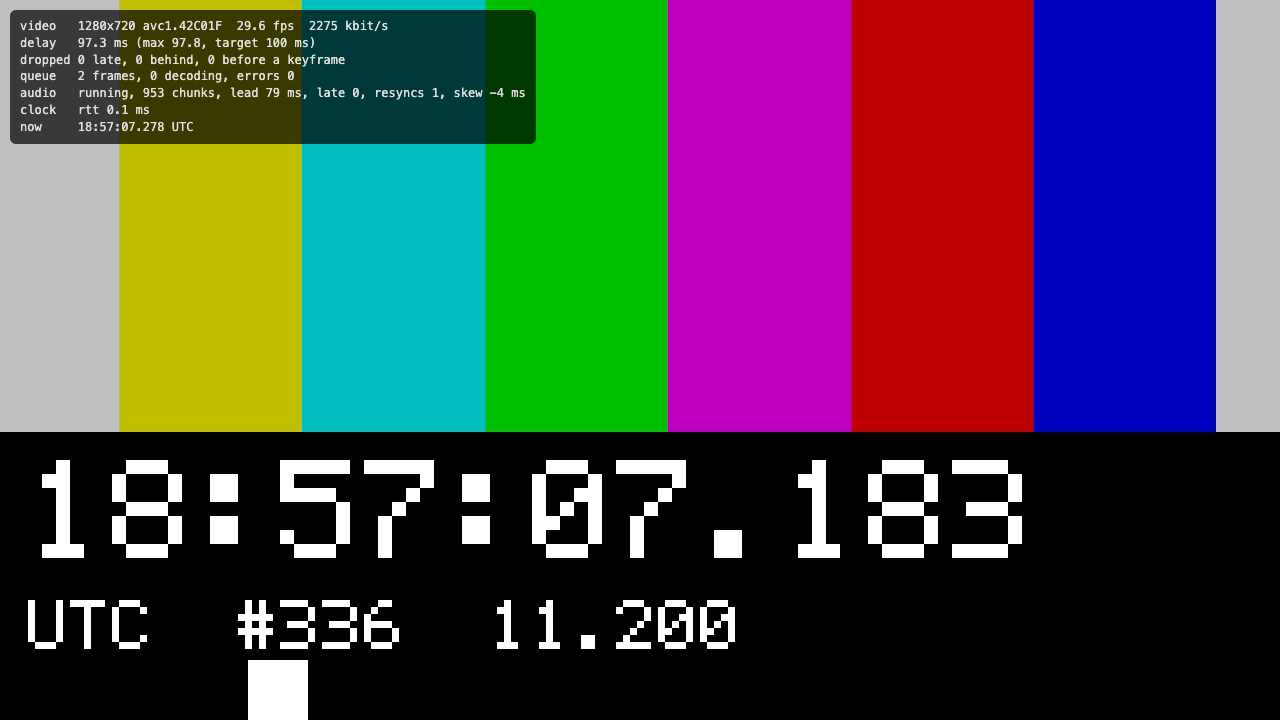
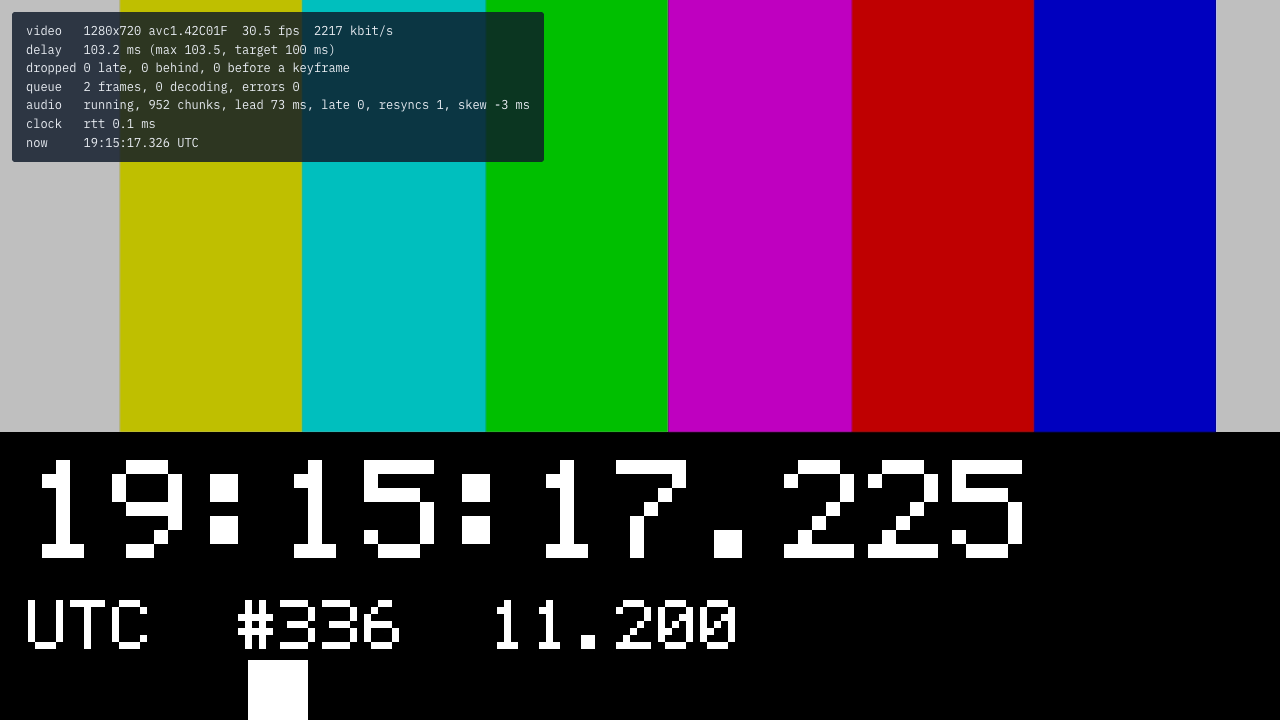
player: the website's look, with the compiled-in fonts
The --to browser page's buttons, message and statistics use the share
page's type and colours (always dark, it frames video): Michroma buttons,
the orange sound button, the tvpipe wordmark over the message, Plex Mono
statistics. The player serves /fonts/ like the share page. Fresh
screenshots for the site.

diff --git a/src/browser/player.html b/src/browser/player.html
@@ -4,26 +4,43 @@
 <meta charset="utf-8">
 <meta name="viewport" content="width=device-width, initial-scale=1">
 <title>tvpipe</title>
+<link rel="preload" href="/fonts/michroma.woff2" as="font" type="font/woff2" crossorigin>
+<link rel="preload" href="/fonts/sixtyfour.woff2" as="font" type="font/woff2" crossorigin>
 <style>
+  /* The tvpipe website's type and colours, always dark (it frames video). */
+  @font-face { font-family: "Sixtyfour"; src: url(/fonts/sixtyfour.woff2) format("woff2"); font-display: block; }
+  @font-face { font-family: "Michroma"; src: url(/fonts/michroma.woff2) format("woff2"); font-display: block; }
+  @font-face { font-family: "IBM Plex Sans"; src: url(/fonts/plex-sans.woff2) format("woff2"); font-weight: 300 700; font-display: swap; }
+  @font-face { font-family: "IBM Plex Mono"; src: url(/fonts/plex-mono-400.woff2) format("woff2"); font-weight: 400; font-display: swap; }
+  :root { color-scheme: dark; --ink: #E8ECF2; --ink-2: rgba(232, 236, 242, .72); --panel: rgba(13, 24, 40, .82);
+          --panel-hover: rgba(19, 34, 58, .95); --accent: #E8743B; --navy: #0D1828; }
   html, body { margin: 0; height: 100%; background: #000; overflow: hidden; }
-  body { font: 15px/1.45 -apple-system, BlinkMacSystemFont, "Segoe UI", Roboto, sans-serif; color: #f5f5f7; }
+  body { font: 400 15px/1.5 "IBM Plex Sans", system-ui, sans-serif; color: var(--ink); -webkit-font-smoothing: antialiased; }
   body.idle, body.idle * { cursor: none !important; }
   #video { position: absolute; inset: 0; width: 100%; height: 100%; object-fit: contain; display: block; }
-  #message { position: absolute; left: 50%; top: 50%; transform: translate(-50%, -50%); text-align: center; color: #a1a1a6; max-width: 80%; }
-  #message b { display: block; color: #f5f5f7; font-size: 20px; font-weight: 600; margin-bottom: 4px; }
-  #sound { position: absolute; left: 50%; bottom: 12%; transform: translateX(-50%); }
-  button { font: inherit; font-weight: 600; border: 0; border-radius: 8px; padding: 9px 16px; cursor: pointer; background: rgba(40,40,44,.85); color: #fff; }
-  button:hover { background: rgba(70,70,76,.95); }
-  #sound { background: #0a66d8; }
-  #controls { position: absolute; right: 12px; bottom: 12px; display: flex; gap: 8px; transition: opacity .3s; }
+  #message { position: absolute; left: 50%; top: 50%; transform: translate(-50%, -50%); text-align: center; color: var(--ink-2); max-width: 80%; }
+  #message .mark { display: block; color: var(--ink); font: 400 22px/1 "Sixtyfour", monospace; font-variation-settings: "SCAN" 60;
+                   letter-spacing: -.02em; margin-bottom: 18px; }
+  #message .mark i { font-style: normal; color: var(--accent); }
+  #message b { display: block; color: var(--ink); font-size: 17px; font-weight: 500; margin-bottom: 2px; }
+  button { font: 400 10.5px/1 "Michroma", sans-serif; letter-spacing: .12em; text-transform: uppercase;
+           border: 0; border-radius: 3px; padding: 13px 18px; cursor: pointer; background: var(--panel); color: var(--ink);
+           -webkit-backdrop-filter: blur(8px); backdrop-filter: blur(8px); }
+  button:hover { background: var(--panel-hover); }
+  :focus-visible { outline: 2px solid var(--accent); outline-offset: 2px; }
+  #sound { position: absolute; left: 50%; bottom: 12%; transform: translateX(-50%); background: var(--accent); color: var(--navy); }
+  #sound:hover { filter: brightness(1.08); }
+  #controls { position: absolute; right: 14px; bottom: 14px; display: flex; gap: 8px; transition: opacity .3s; }
   body.idle #controls { opacity: 0; pointer-events: none; }
-  #stats { position: absolute; left: 10px; top: 10px; margin: 0; padding: 8px 10px; border-radius: 6px; background: rgba(0,0,0,.7); color: #e0e0e0; font: 12px/1.4 ui-monospace, Menlo, Consolas, monospace; white-space: pre; pointer-events: none; }
+  #stats { position: absolute; left: 12px; top: 12px; margin: 0; padding: 10px 14px; border-radius: 3px; background: var(--panel);
+           color: var(--ink); font: 400 12px/1.55 "IBM Plex Mono", ui-monospace, monospace; white-space: pre; pointer-events: none;
+           font-variant-numeric: tabular-nums; }
   [hidden] { display: none !important; }
 </style>
 </head>
 <body>
 <canvas id="video" width="2" height="2"></canvas>
-<div id="message"><b>tvpipe</b><span id="detail">Connecting…</span></div>
+<div id="message"><span class="mark">tv<i>pipe</i></span><b>Connecting…</b><span id="detail"></span></div>
 <button id="sound" hidden>Click for sound</button>
 <div id="controls">
   <button id="statsButton" title="Statistics (S)">Stats</button>

diff --git a/src/browser/player.js b/src/browser/player.js
@@ -78,7 +78,7 @@
   function showMessage(title, detail) {
     var m = $('message');
     if (!ui || title === null) { m.hidden = true; return; }
-    m.firstChild.textContent = title;
+    m.querySelector('b').textContent = title;
     $('detail').textContent = detail || '';
     m.hidden = false;
   }

diff --git a/src/browser/player.rs b/src/browser/player.rs
@@ -1,11 +1,11 @@
 //! `--to browser`: a receiver that plays tvpipe's stream in a browser tab
 //! (W14; protocol in docs/player-protocol.md).
 //!
-//! [`BrowserSink`] serves the player page (`player.html`, `player.js`) on
-//! 127.0.0.1 with the same security as the share page
-//! (`browser::share`): a random `?t=` token on the page and the socket, a
-//! loopback `Host` (no DNS rebinding), and the WebSocket only from the
-//! page's own origin. Any number of tabs may watch. Each gets the decoder
+//! [`BrowserSink`] serves the player page (`player.html`, `player.js`,
+//! the fonts of [`fonts`]) on 127.0.0.1 with the same security as the
+//! share page (`browser::share`): a random `?t=` token on the page and the
+//! socket, a loopback `Host` (no DNS rebinding), and the WebSocket only
+//! from the page's own origin. Any number of tabs may watch. Each gets the decoder
 //! configuration as JSON, then one binary SLRW record (docs/slrw.md) per
 //! WebSocket message: H.264 access units (AVCC, as the session has them)
 //! and s16le PCM, stamped with the frame's instant on the session's
@@ -33,6 +33,7 @@ use std::net::{SocketAddr, TcpStream};
 use std::sync::{Arc, Condvar, Mutex, MutexGuard};
 use std::time::{Duration, Instant};
 
+use crate::browser::fonts;
 use crate::codec::json::Value;
 use crate::error::{Error, ErrorKind, Result};
 use crate::media::clock::{SessionClock, SinkClock, Tolerance};
@@ -428,6 +429,7 @@ impl Shared {
                 "image/x-icon",
                 Vec::new(),
             )),
+            p if p.starts_with("/fonts/") => fonts::reply(p),
             _ if !token_ok => Reply::Response(httpd::error_response(
                 403,
                 "Forbidden (open the URL tvpipe printed)",

diff --git a/src/browser/mod.rs b/src/browser/mod.rs
@@ -11,7 +11,7 @@
 //! - [`headless`]: `tvpipe share URL` (W13), a browser of tvpipe's own
 //!   that shares its tab through the same capture script ([`launch`]
 //!   starts it, [`cdp`] drives it over the DevTools protocol).
-//! - [`fonts`]: the fonts the share page uses, compiled in.
+//! - [`fonts`]: the fonts of the share and player pages, compiled in.
 //! - [`platform`]: opening a URL with the OS's opener and the browsers'
 //!   install paths (the one place with `cfg(target_os)` in this module,
 //!   like a config path).

diff --git a/docs/player-protocol.md b/docs/player-protocol.md
@@ -23,7 +23,9 @@ The share page's rules ([`share-protocol.md`](share-protocol.md)), with one more
     screen, while the player only shows what tvpipe streams anyway, so
     a lasting token there is the better trade.
 - `GET /?t=TOKEN`: the page. `GET /player.js`: the script (static, no
-  token). `GET /ws?t=TOKEN`: the WebSocket (RFC 6455, no extensions).
+  token). `GET /fonts/NAME.woff2`: the page's fonts (`src/browser/fonts/`,
+  static, no token). `GET /ws?t=TOKEN`: the WebSocket (RFC 6455, no
+  extensions).
 - Every request needs a `Host` of `127.0.0.1:PORT`, `localhost:PORT` or
   `[::1]:PORT` (421 otherwise: DNS rebinding); the page and the socket
   need the token (403).
